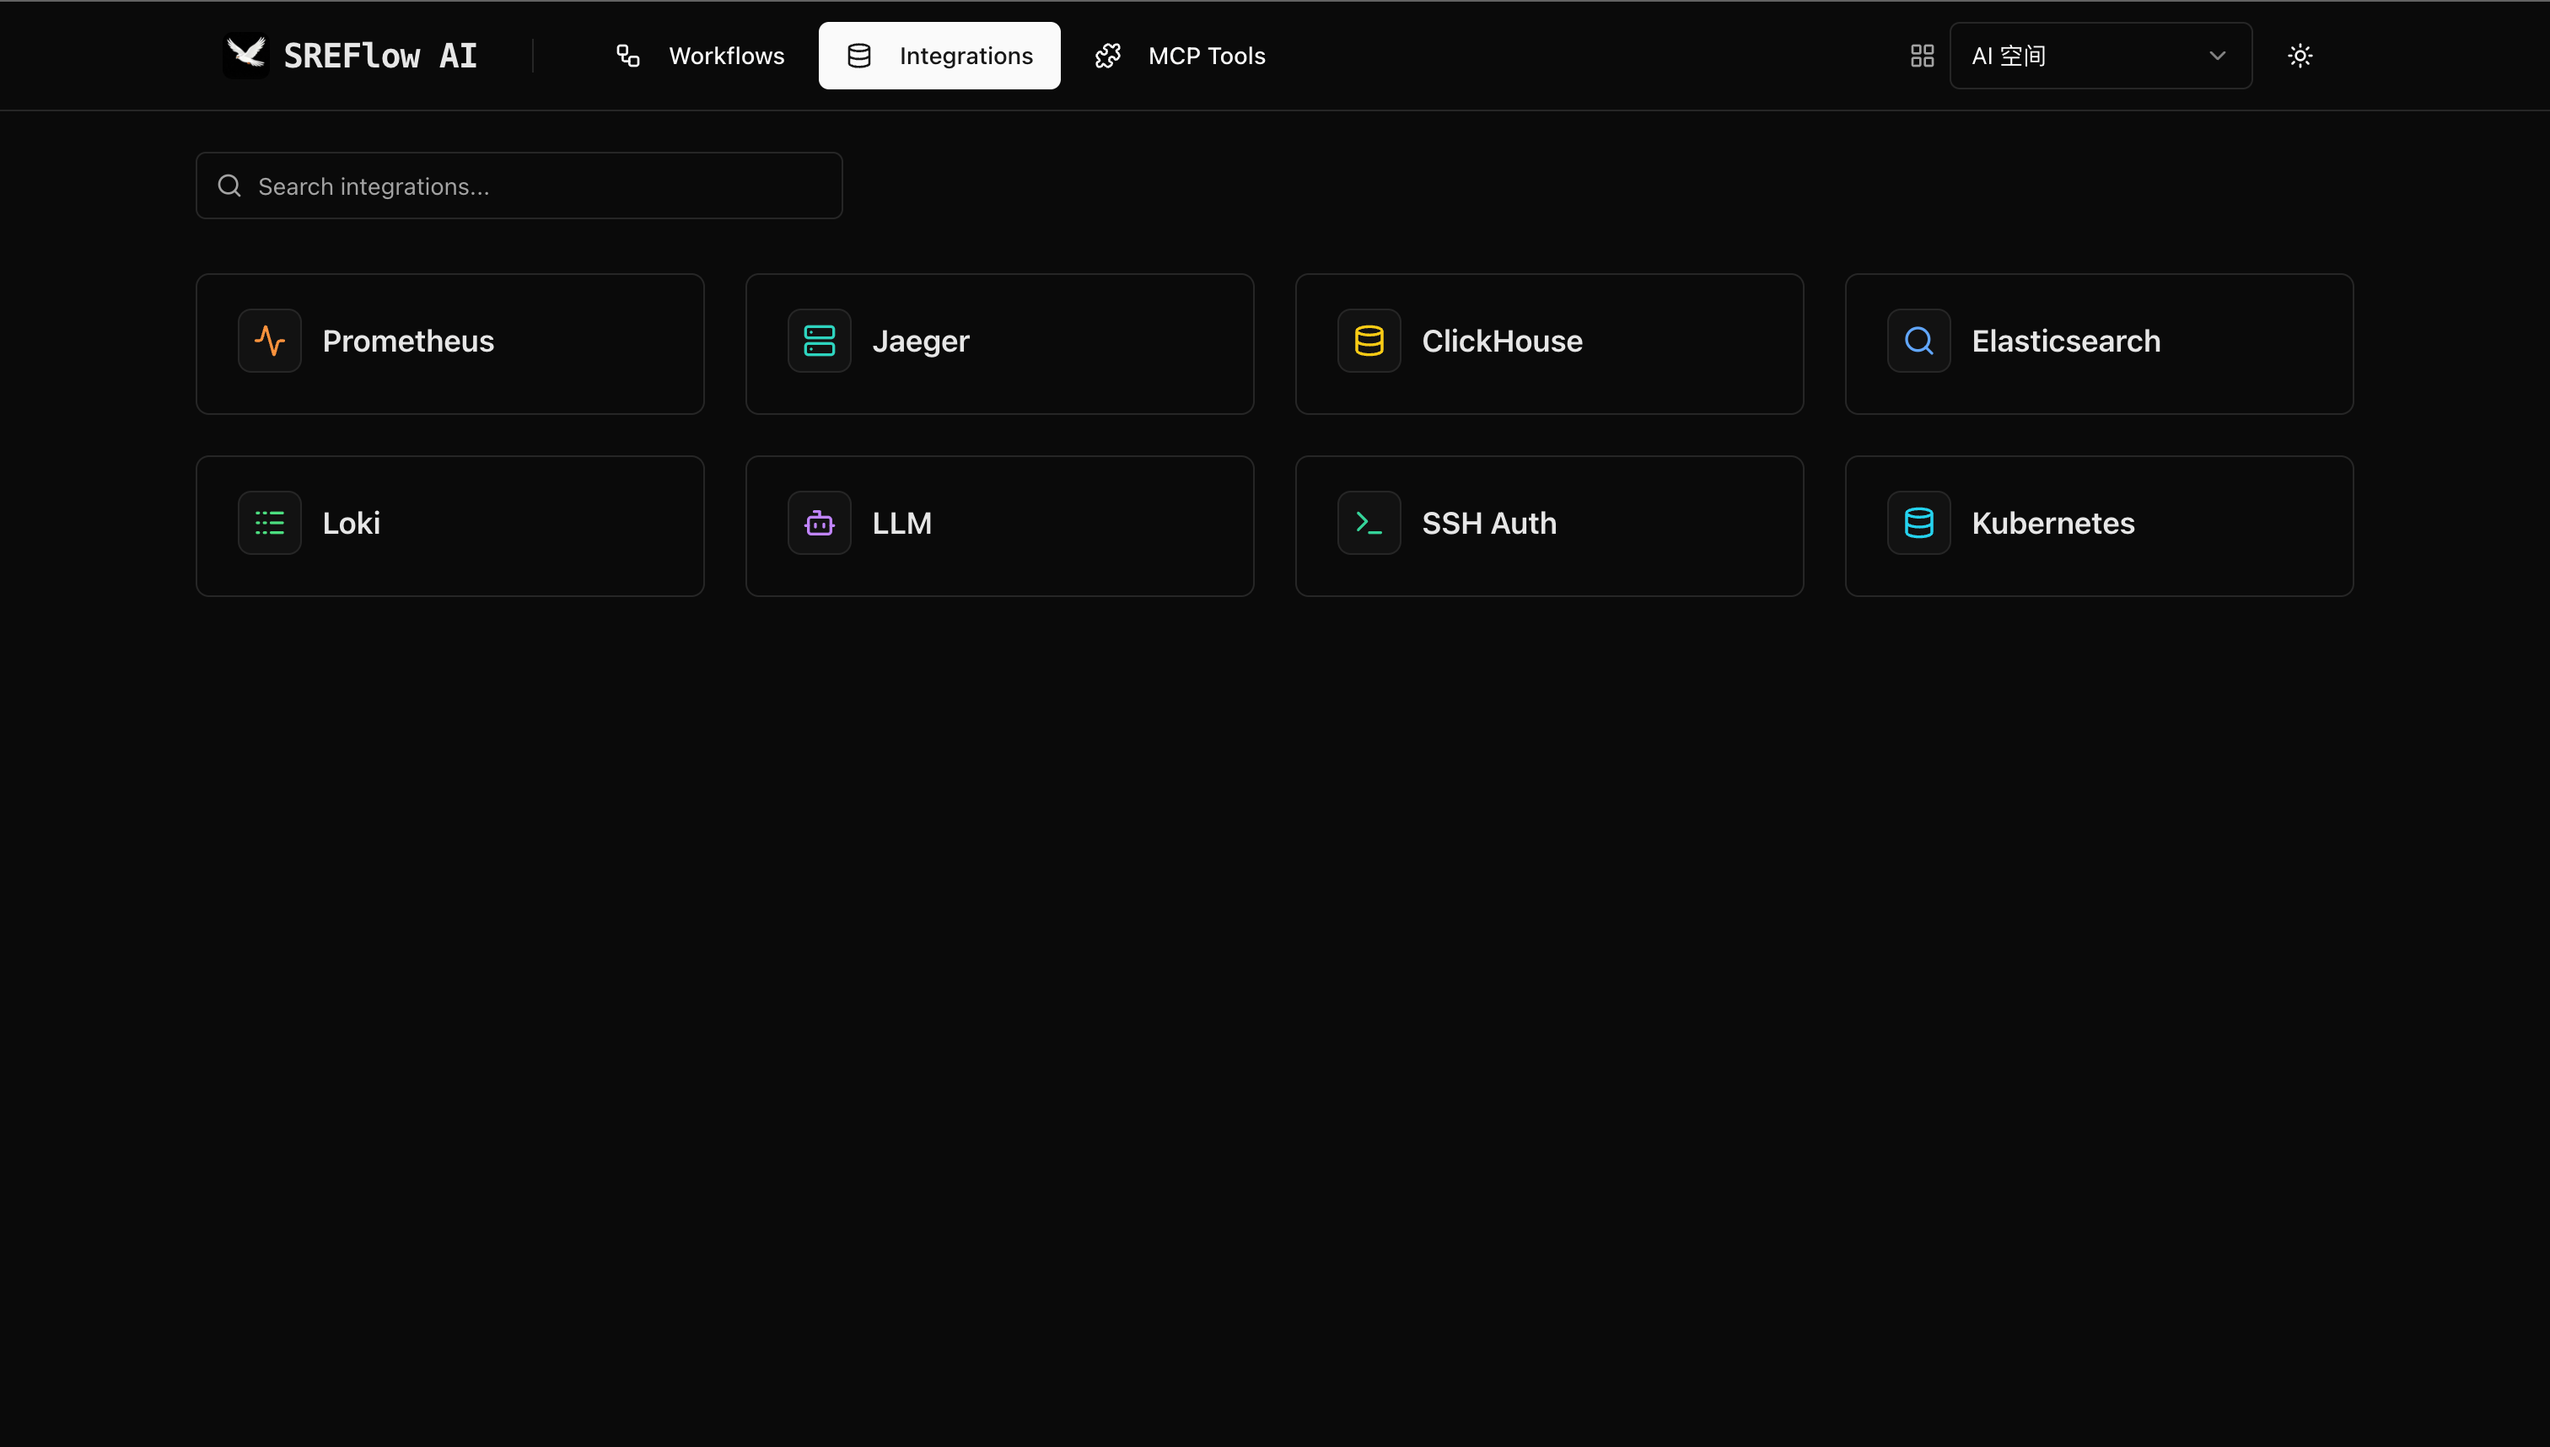
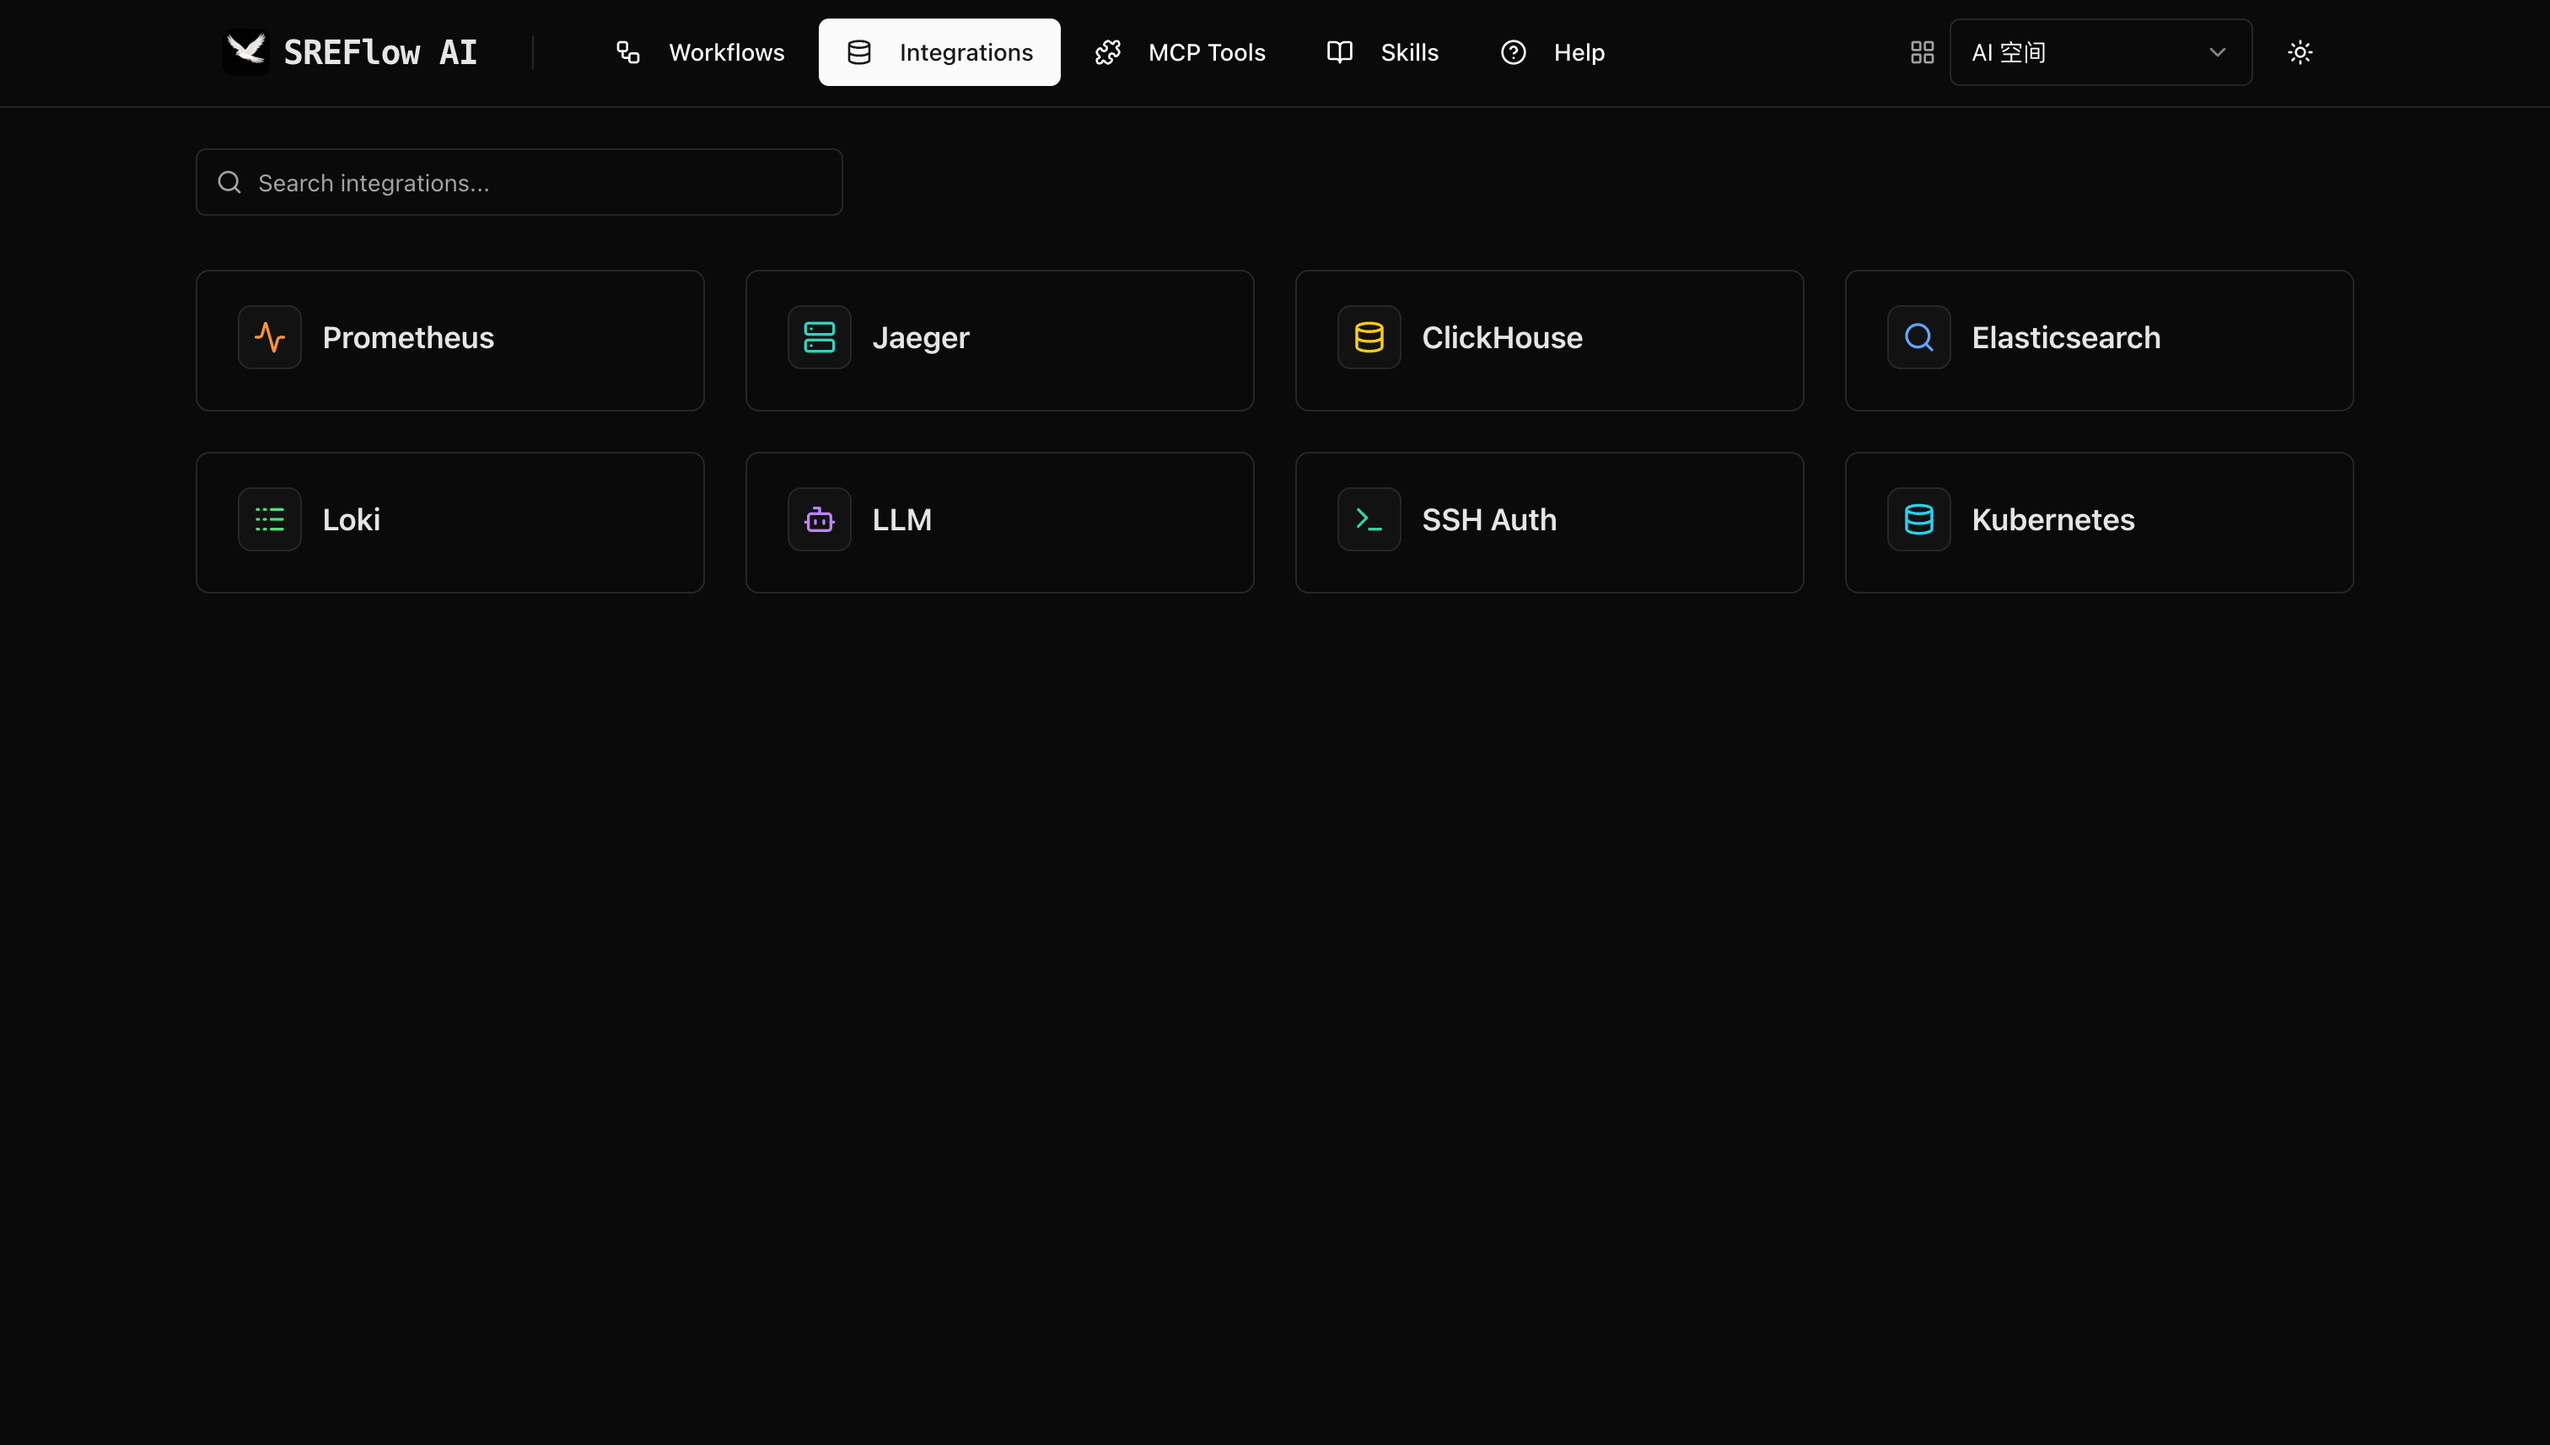
update

diff --git a/index.html b/index.html
@@ -820,7 +820,7 @@
       <div class="pain-card">
         <div class="pain-number">3</div>
         <h3>LLM Agent 懂推理，但不了解业务</h3>
-        <p>当前市面上的 SRE Agent 普遍采用 LLM 推理 + Tool Calling 模式，但大模型并不了解你的架构与业务。</p>
+        <p>当前市面上的 SRE Agent 普遍采用 LLM 推理 + Tool Calling 模式，但大模型并不了解你们业务的常规排障手法。</p>
         <span class="pain-highlight">同一个告警，不同时间可能走完全不同的分析路径，无法沉淀为标准化流程；缺乏"老手直觉"，广撒网式排查而非精准定位。</span>
       </div>
     </div>
@@ -841,13 +841,12 @@
         <p class="compare-subtitle">黑盒 · 不可控 · 不可复现</p>
         <div class="compare-flow">
           <span style="color:#ff8a8a;">告警</span> → LLM 推理 → 调用工具 A/B/C → 给出结论<br>
-          <span style="color:rgba(255,255,255,0.3);">// 不了解架构，广撒网式排查</span>
+          <span style="color:rgba(255,255,255,0.3);">// 不了解架构体系，广撒网式排查</span>
         </div>
         <div>
-          <span class="compare-tag">⚠ 不了解架构</span>
-          <span class="compare-tag">⚠ 不了解业务</span>
+          <span class="compare-tag">⚠ 不了解架构体系</span>
           <span class="compare-tag">⚠ 路径不可复现</span>
-          <span class="compare-tag">⚠ 知识无法沉淀</span>
+          <span class="compare-tag">⚠ 排障路线不固定</span>
         </div>
       </div>
       <div class="compare-card good">
@@ -943,6 +942,16 @@
         <p>内置 Model Context Protocol 服务端，LLM Agent 可直接调用编排工作流，实现 AI 原生集成。</p>
       </div>
       <div class="feature-card">
+        <div class="feature-icon mono">🤖</div>
+        <h3>Agent 智能体</h3>
+        <p>内置 AI Agent 节点，支持自主推理、多步决策与工具调用，在 Workflow 中嵌入智能体实现端到端自动化。</p>
+      </div>
+      <div class="feature-card">
+        <div class="feature-icon mono">🎯</div>
+        <h3>Skill 技能体系</h3>
+        <p>可插拔的 Skill 技能框架，将领域知识与操作封装为标准化技能单元，支持复用、组合与版本管理。</p>
+      </div>
+      <div class="feature-card">
         <div class="feature-icon mono">🏢</div>
         <h3>多租户 Workspace</h3>
         <p>工作空间级别的资源隔离，集成与工作流按空间管理，满足多团队协作需求。</p>
@@ -975,7 +984,7 @@
 <section id="nodes" class="nodes-section">
   <div class="container">
     <span class="section-label">内置节点</span>
-    <h2 class="section-title">四大类别，<span class="text-gradient">16+ 节点</span></h2>
+    <h2 class="section-title">四大类别，<span class="text-gradient">18+ 节点</span></h2>
     <p class="section-desc">从数据采集到智能分析，从逻辑判断到结果输出，覆盖 SRE 全场景。</p>
 
     <div class="node-categories">
@@ -996,6 +1005,8 @@
         <div class="node-category-title"><span class="emoji">🧠</span> 处理分析</div>
         <div class="node-chips">
           <div class="node-chip"><span class="chip-name">llm</span><span class="chip-desc">大模型推理</span></div>
+          <div class="node-chip"><span class="chip-name">agent</span><span class="chip-desc">Agent 智能体</span></div>
+          <div class="node-chip"><span class="chip-name">skill</span><span class="chip-desc">Skill 技能接入</span></div>
           <div class="node-chip"><span class="chip-name">condition</span><span class="chip-desc">条件分支</span></div>
           <div class="node-chip"><span class="chip-name">goscript</span><span class="chip-desc">Go 脚本</span></div>
           <div class="node-chip"><span class="chip-name">mcptool</span><span class="chip-desc">MCP 工具</span></div>
@@ -1023,61 +1034,13 @@
   </div>
 </section>
 
-<!-- ==================== Architecture ==================== -->
-<section id="architecture">
+<!-- Skill 技能管理截图 -->
+<section style="padding: 60px 0 100px; text-align: center;">
   <div class="container">
-    <span class="section-label">架构设计</span>
-    <h2 class="section-title">分层架构，<span class="text-gradient">职责清晰</span></h2>
-    <p class="section-desc">从前端控制台到工作流引擎，每一层独立演进。</p>
-
-    <div class="arch-diagram">
-      <svg class="arch-svg" viewBox="0 0 800 420">
-        <defs>
-          <marker id="arrowhead" markerWidth="10" markerHeight="7" refX="10" refY="3.5" orient="auto">
-            <polygon points="0 0, 10 3.5, 0 7" fill="#666"/>
-          </marker>
-        </defs>
-
-        <!-- Web Console -->
-        <rect class="arch-box" x="20" y="20" width="200" height="80"/>
-        <text class="arch-label" x="120" y="52" text-anchor="middle">Web Console</text>
-        <text class="arch-sublabel" x="120" y="72" text-anchor="middle">Next.js + React Flow</text>
-
-        <!-- API Server -->
-        <rect class="arch-box" x="300" y="20" width="200" height="80"/>
-        <text class="arch-label" x="400" y="52" text-anchor="middle">API Server</text>
-        <text class="arch-sublabel" x="400" y="72" text-anchor="middle">Gin + GORM</text>
-
-        <!-- Workflow Engine -->
-        <rect class="arch-box arch-box-accent" x="580" y="20" width="200" height="80"/>
-        <text class="arch-label" x="680" y="52" text-anchor="middle">Workflow Engine</text>
-        <text class="arch-sublabel" x="680" y="72" text-anchor="middle">DAG Executor</text>
-
-        <!-- Integrations -->
-        <rect class="arch-box" x="200" y="180" width="200" height="80"/>
-        <text class="arch-label" x="300" y="212" text-anchor="middle">Integrations</text>
-        <text class="arch-sublabel" x="300" y="232" text-anchor="middle">MySQL / Redis / SQLite</text>
-
-        <!-- MCP Server -->
-        <rect class="arch-box arch-box-accent" x="480" y="180" width="200" height="80"/>
-        <text class="arch-label" x="580" y="212" text-anchor="middle">MCP Server</text>
-        <text class="arch-sublabel" x="580" y="232" text-anchor="middle">SSE / StreamableHTTP</text>
-
-        <!-- Node Implementations -->
-        <rect class="arch-box" x="100" y="320" width="600" height="80"/>
-        <text class="arch-label" x="400" y="352" text-anchor="middle">Node Implementations</text>
-        <text class="arch-sublabel" x="400" y="372" text-anchor="middle">Prometheus · Loki · Jaeger · ES · ClickHouse · K8s · SSH · LLM · GoScript · Condition · MCP · HTTP</text>
-
-        <!-- Arrows -->
-        <line class="arch-arrow" x1="220" y1="60" x2="300" y2="60"/>
-        <line class="arch-arrow" x1="500" y1="60" x2="580" y2="60"/>
-        <line class="arch-arrow" x1="400" y1="100" x2="300" y2="180"/>
-        <line class="arch-arrow" x1="680" y1="100" x2="580" y2="180"/>
-        <line class="arch-arrow" x1="680" y1="100" x2="400" y2="320"/>
-        <line class="arch-arrow" x1="300" y1="260" x2="350" y2="320"/>
-        <line class="arch-arrow" x1="580" y1="260" x2="500" y2="320"/>
-      </svg>
-    </div>
+    <span class="section-label">Skill 技能体系</span>
+    <h2 class="section-title">知识封装，<span class="text-gradient">即插即用</span></h2>
+    <p class="section-desc" style="margin: 0 auto 36px;">将领域经验与操作封装为可复用的 Skill，支持版本管理与灵活组合。</p>
+    <img src="skills.png" alt="SREFlow Skill 技能管理" style="width: 100%; max-width: 1000px; border-radius: 16px; border: 1px solid var(--border);">
   </div>
 </section>
 
